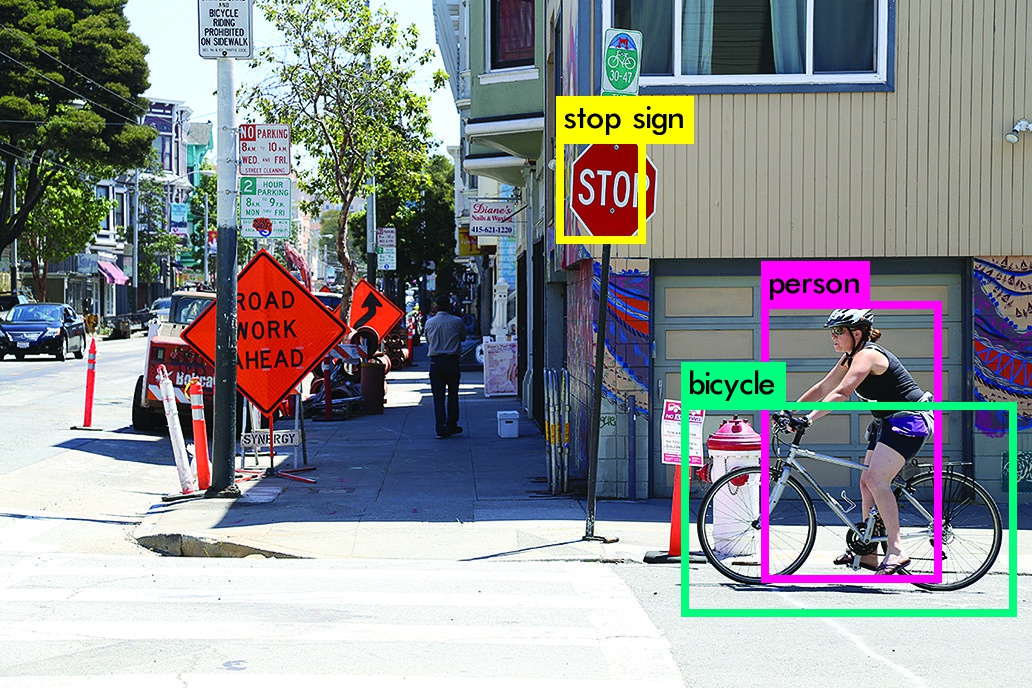
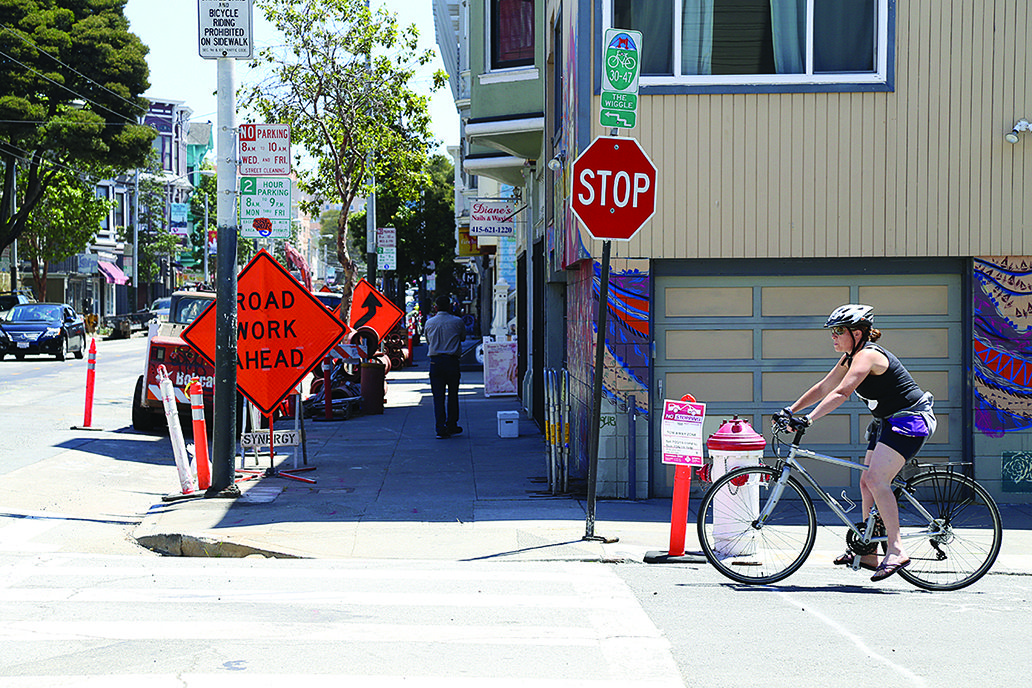
accidentially put predicted images into media folder

diff --git a/README.md b/README.md
@@ -50,6 +50,10 @@ GPU=1, CUDA=1 and OPENCV=1
 To calculate the mAP of my 1-class model:
 `darknet/darknet detector map data/training/model_1class.data data/models/model_1class.cfg data/models/model_1class.weights`
 
+## Troubleshooting
+- If you get a python error "no module named _tkinter": `apt-get install python3-tk`
+- If you get an error during build of darknet "#include <opencv2/highgui.hpp> not found": change path to opencv2/highgui/highgui.hpp and try building again
+
 ## Acknowledgement
 Joseph Chet Redmon et al. for writing the deep learning framework [darknet](https://pjreddie.com/darknet/)
 AlexeyAB for making darknet [available for windows](https://github.com/AlexeyAB/darknet)
